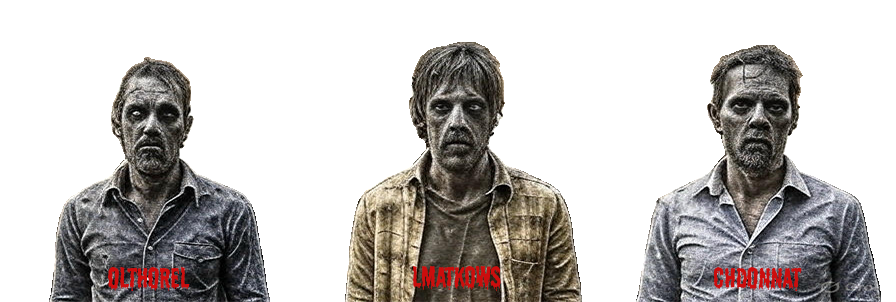
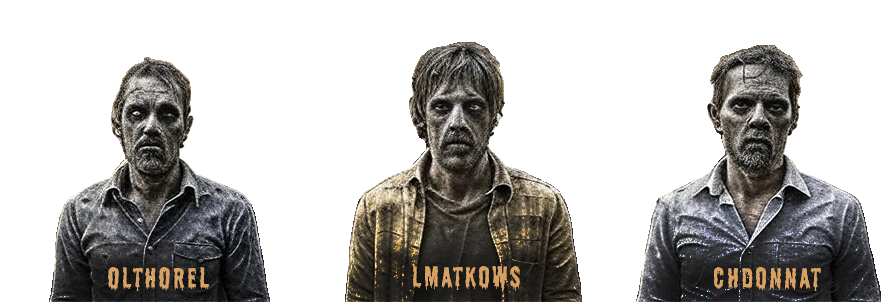
banniere amelioree

Changed region(s): [[0.375, 0.6556, 0.6562, 1.0], [0.6875, 0.6854, 1.0, 1.0], [0.0312, 0.7748, 0.3125, 1.0]]

diff --git a/www/server3/index.html b/www/server3/index.html
@@ -27,6 +27,8 @@
             onmouseover="highlight('glow-delete')" onmouseout="unhighlight('glow-delete')">
       <area alt="Cookies" title="Cookies" href="Cookies/" coords="676,538,858,628" shape="rect"
             onmouseover="highlight('glow-cookies')" onmouseout="unhighlight('glow-cookies')">
+	  <area alt="Lmatkows" title="lmatkows" href="https://github.com/Ravaill-hack" coords="370,700,858,628" shape="rect"
+            onmouseover="highlight('glow-cookies')" onmouseout="unhighlight('glow-cookies')">
     </map>
   </div>
 

diff --git a/src/main.cpp b/src/main.cpp
@@ -18,29 +18,23 @@ volatile __sig_atomic_t g_stop = 0;
 void	printBanner()
 {
 	std::cout <<
-	"             _    _ ___________  _____ ___________ _   _  \n"
-	"            | |  | |  ___| ___ \\/  ___|  ___| ___ \\ | | | \n"
-	"            | |  | | |__ | |_/ /\\ `--.| |__ | |_/ / | | | \n"
-	"            | |/\\| |  __|| ___ \\ `--. \\  __||    /| | | | \n"
-	"            \\  /\\  / |___| |_/ //\\__/ / |___| |\\ \\\\ \\_/ / \n"
-	"             \\/  \\/\\____/\\____/ \\____/\\____/\\_| \\_|\\___/  \n"
 	"\n"
 	"\033[36m"
     "      _________________________________________________________\n"
     "     |                                                         |\n"
     "     |   .-------------------------------------------------.   |\n"
-    "     |   |  \033[31m _    _ ___________  _____ ___________ _   _\033[36m   |   |\n"
-    "     |   |  \033[31m| |  | |  ___| ___ \\/  ___|  ___| ___ \\ | | |\033[36m  |   |\n"
-    "     |   |  \033[31m| |  | | |__ | |_/ /\\ `--.| |__ | |_/ / | | |\033[36m  |   |\n"
-    "     |   |  \033[31m| |/\\| |  __|| ___ \\ `--. \\  __||    /| | | |\033[36m  |   |\n"
-    "     |   |  \033[31m\\  /\\  / |___| |_/ //\\__/ / |___| |\\ \\\\ \\_/ / \033[36m |   |\n"
-    "     |   |  \033[31m \\/  \\/\\____/\\____/ \\____/\\____/\\_| \\_|\\___/\033[36m   |   |\n"
+    "     |   |  \033[38;2;214;41;118m _    _ ___________  _____ ___________ _   _\033[36m   |   |\n"
+    "     |   |  \033[38;2;214;41;118m| |  | |  ___| ___ \\/  ___|  ___| ___ \\ | | |\033[36m  |   |\n"
+    "     |   |  \033[38;2;224;68;89m| |  | | |__ | |_/ /\\ `--.| |__ | |_/ / | | |\033[36m  |   |\n"
+    "     |   |  \033[38;2;234;95;59m| |/\\| |  __|| ___ \\ `--. \\  __||    /| | | |\033[36m  |   |\n"
+    "     |   |  \033[38;2;245;122;30m\\  /\\  / |___| |_/ //\\__/ / |___| |\\ \\\\ \\_/ / \033[36m |   |\n"
+    "     |   |  \033[38;2;255;149;0m \\/  \\/\\____/\\____/ \\____/\\____/\\_| \\_|\\___/\033[36m   |   |\n"
     "     |   |  \033[35m.------------------.\033[36m                           |   |\n"
-    "     |   |  \033[35m|  |            |  |\033[36m     [:::]      [:::]      |   |\n"
-    "     |   |  \033[35m|  |            |  |\033[31m     _________________ \033[36m    |   |\n"
-    "     |   |  \033[35m|  |            |  |\033[31m    |#################|\033[36m    |   |\n"
-    "     |   |  \033[35m|  |____________|  |\033[31m    |#################|\033[36m    |   |\n"
-    "     |   |  \033[35m'------------------'\033[31m    '-----------------'\033[36m    |   |\n"
+    "     |   |  \033[35m|  .------------.  |\033[31m     [:::]      [:::]  \033[36m    |   |\n"
+    "     |   |  \033[35m|  |            |  |\033[31m     [:::]      [:::]  \033[36m    |   |\n"
+    "     |   |  \033[35m|  |            |  |\033[31m     [:::]      [:::]  \033[36m    |   |\n"
+    "     |   |  \033[35m|  '------------'  |\033[31m     [:::]      [:::]  \033[36m    |   |\n"
+    "     |   |  \033[35m'------------------'\033[31m                       \033[36m    |   |\n"
     "     |   '-------------------------------------------------'   |\n"
     "     |                                                         |\n"
     "     |_________________________________________________________|\n"
